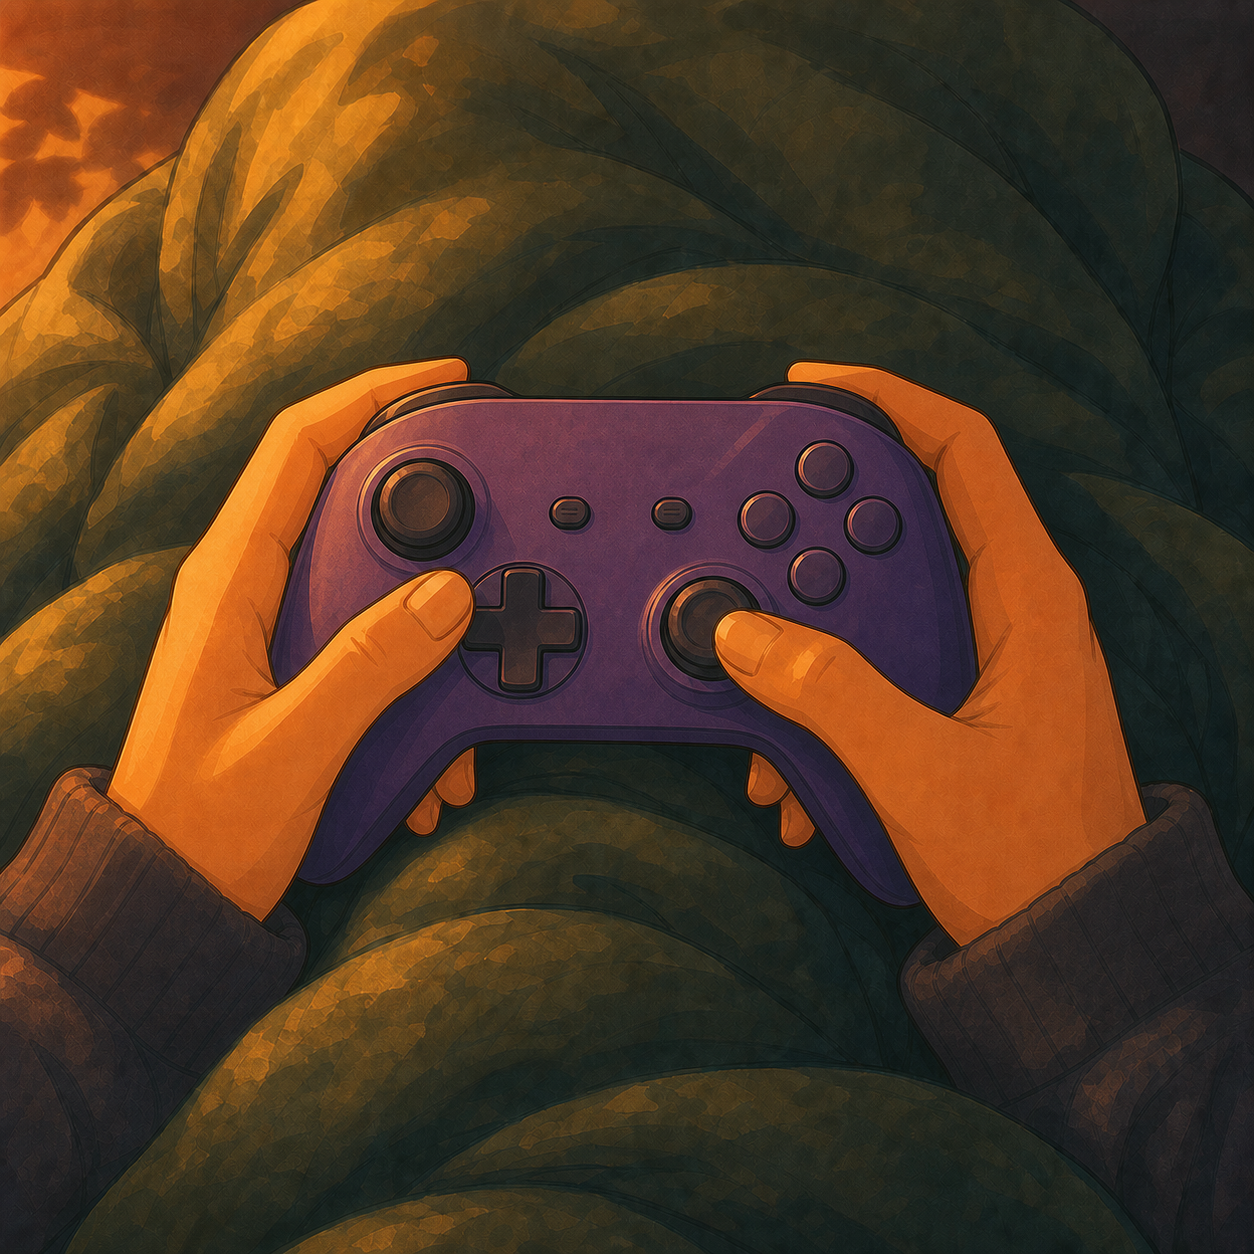
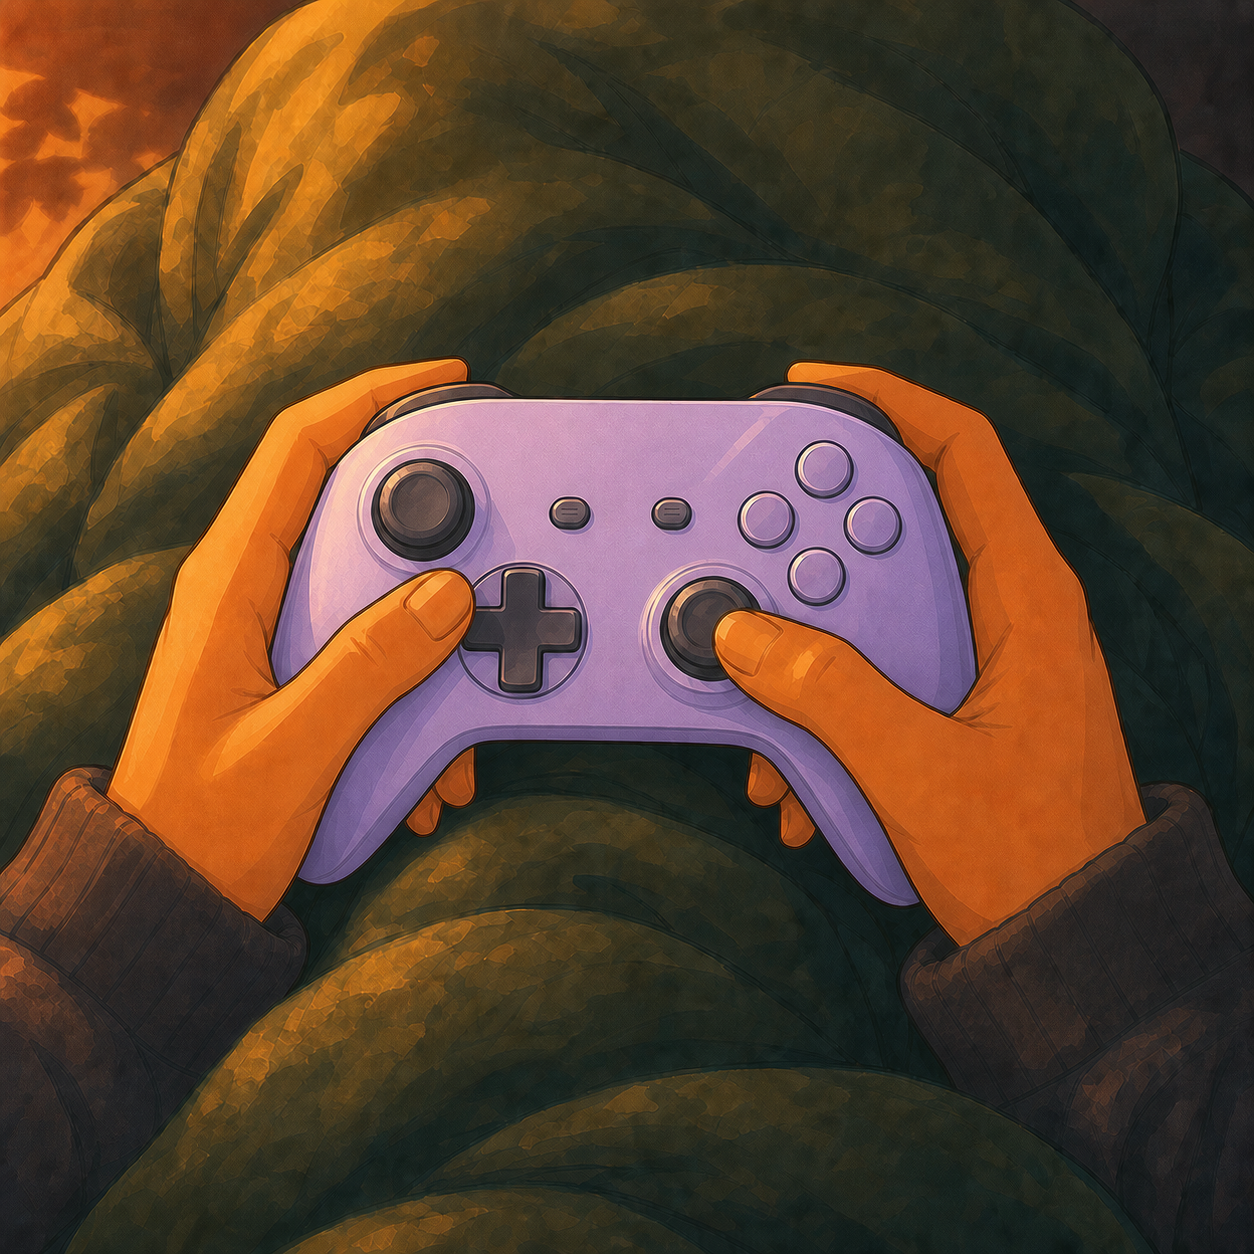
Remove CC Apps preset

Changed region(s): [[0.2177, 0.2799, 0.7775, 0.7464]]

diff --git a/index.html b/index.html
@@ -249,7 +249,6 @@ const defaultPresets=[
   {id:'on-duty',icon:'\uD83D\uDE91',name:'On Duty',details:'Responding to calls',state:'\uD83D\uDEA8 In the city',art:'assets/ems.jpg',artworkKey:'ems'},
   {id:'training',icon:'\uD83C\uDF93',name:'Training',details:'Training a cadet',state:'\uD83D\uDE91 FTO Duty',art:'assets/training.jpg',fallbackArt:'assets/busy.jpg',artworkKey:'busy'},
   {id:'interviews',icon:'\uD83D\uDCDD',name:'Interviews',details:'Conducting interviews',state:'\uD83D\uDCDD Please wait',art:'assets/busy.jpg',artworkKey:'busy'},
-  {id:'cc-apps',icon:'\uD83D\uDCC1',name:'CC Apps',details:'Reviewing CC applications',state:'\uD83D\uDCC1 CC Lead',art:'assets/busy.jpg',artworkKey:'busy'},
   {id:'gaming',icon:'\uD83C\uDFAE',name:'Gaming',details:'Gaming mode',state:'Choosing a game',art:'assets/gaming.jpg',fallbackArt:'assets/busy.jpg',artworkKey:'gaming'}
 ];
 let saved=JSON.parse(localStorage.lofiRoomV4||localStorage.lofiRoomV3||'{}'),customPresets=saved.customPresets||[],active=saved.active||'awake',started=saved.started||Date.now(),autoAway=saved.autoAway??true,elapsed=saved.elapsed??true,awayMinutes=saved.awayMinutes||5,awakeOffTime=saved.awakeOffTime||'22:00',artwork=saved.artwork||{},textEdits=saved.textEdits||{},pendingArt=null,editingText=null,sharedSha=null,ghToken=localStorage.lofiRoomGitHubToken||'';

diff --git a/sw.js b/sw.js
@@ -1,4 +1,4 @@
-const CACHE='lofi-room-v23';
+const CACHE='lofi-room-v24';
 const ASSETS=['./','index.html','manifest.webmanifest','icon.svg','presets.json','assets/awake.jpg','assets/busy.jpg','assets/away.jpg','assets/ems.jpg','assets/training.jpg','assets/chilling.jpg','assets/gaming.jpg'];
 self.addEventListener('install',event=>{event.waitUntil(caches.open(CACHE).then(cache=>cache.addAll(ASSETS)));self.skipWaiting();});
 self.addEventListener('activate',event=>{event.waitUntil(caches.keys().then(keys=>Promise.all(keys.filter(key=>key!==CACHE).map(key=>caches.delete(key)))));self.clients.claim();});

diff --git a/companion/Program.cs b/companion/Program.cs
@@ -606,7 +606,6 @@ internal sealed record PresenceRequest
             "on-duty" => Build("on-duty", "On Duty", "Responding to calls", "In the city", "ems"),
             "training" => Build("training", "Training", "Training a cadet", "FTO Duty", "busy"),
             "interviews" => Build("interviews", "Interviews", "Conducting interviews", "Please wait", "busy"),
-            "cc-apps" => Build("cc-apps", "CC Apps", "Reviewing CC applications", "CC Lead", "busy"),
             "gaming" => Build("gaming", "Gaming", "Gaming mode", "Choosing a game", "gaming"),
             _ => Awake(),
         };
